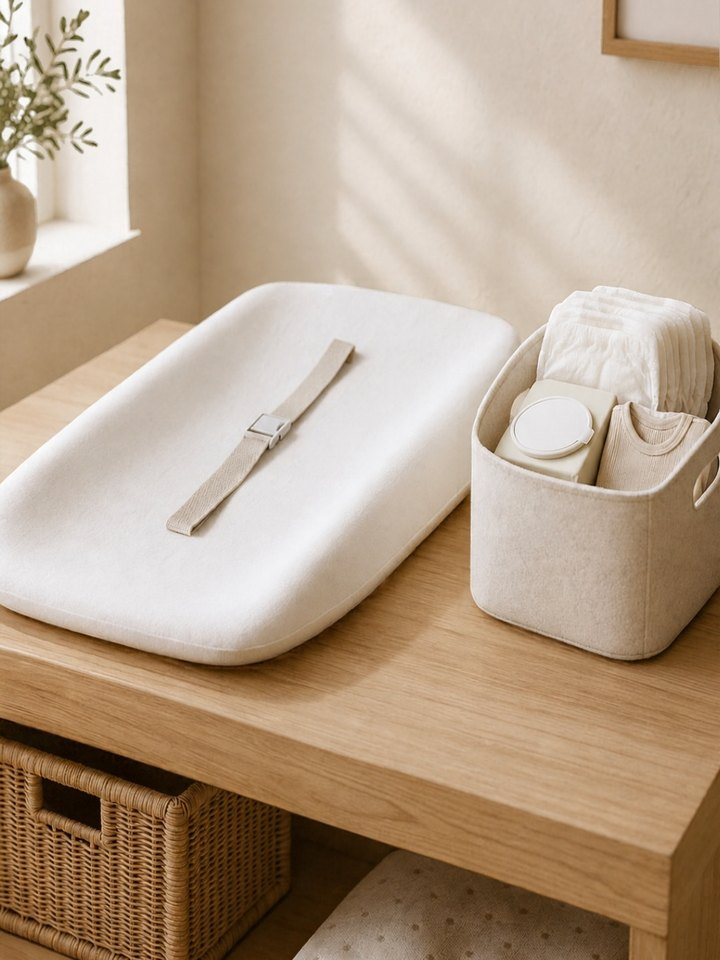
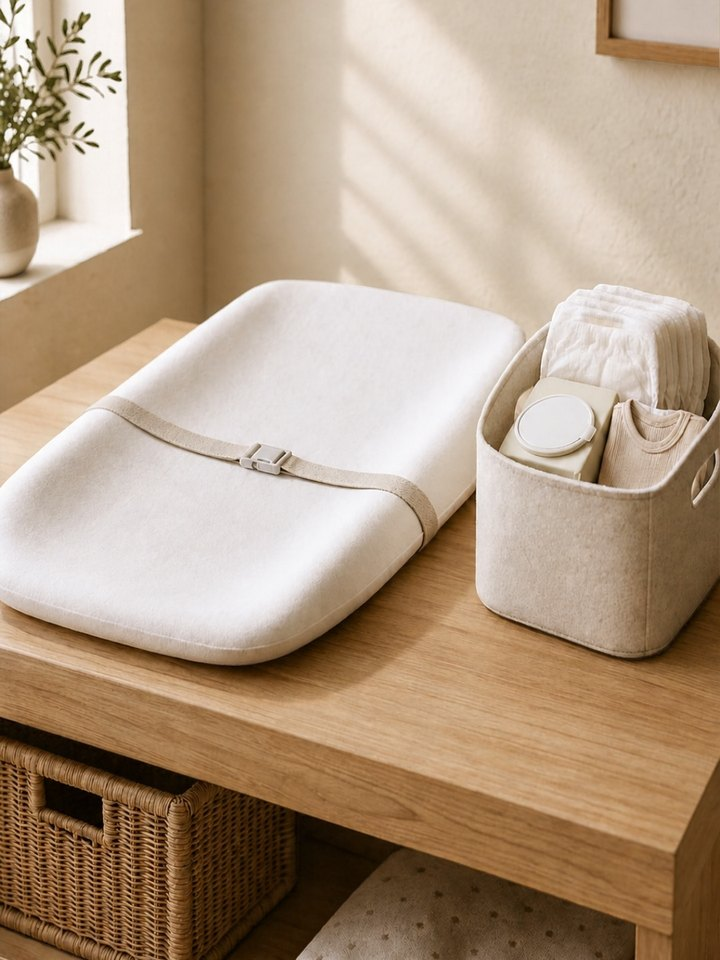
Safety: changing-pad strap runs across the pad; tag sits under it
Claude-Session: https://claude.ai/code/session_01SSLJSEm38iTtuYbhThgaqn

diff --git a/js/safety-v2.js b/js/safety-v2.js
@@ -208,7 +208,7 @@
       fix: [['window', 'Cordless blinds and shades', 'Tying up the cord isn’t enough'], ['plug', 'Monitor cords 3 feet away', 'From the crib or bassinet'], ['crib', 'Crib away from windows', 'Not under or right beside one']],
       checks: ['Stand beside the crib and stretch out an arm. You shouldn’t reach any cord.'] },
     changing: {
-      ba: [[PH('changing-before'), 'A changing table with a bare pad and nothing within reach', null], [PH('changing-after'), 'The same table with a strapped pad and a caddy of diapers and wipes beside it', ['Strap', 36, 52, 'r']]],
+      ba: [[PH('changing-before'), 'A changing table with a bare pad and nothing within reach', null], [PH('changing-after'), 'The same table with a strapped pad and a caddy of diapers and wipes beside it', ['Strap', 36, 53, 'b']]],
       spotTiles: [['eye', 'Supplies out of reach', 'So you turn away for a second'], ['roll', 'A raised table', 'Babies roll sooner than you expect'], ['sofa', 'Beds and sofas', 'No edge to stop a roll']],
       fixPhoto: [PH('changing-fix'), 'A changing table with wipes and a changing pad within arm’s reach', [['Wipes within reach', 10, 64, 'r']]],
       fix: [['diaper', 'Supplies within reach', 'Diapers, wipes and a change of clothes'], ['hand', 'One hand on {o}, always', 'Even with the strap on'], ['mat', 'Or use the floor', 'A mat on the floor, never a bed or sofa']],

diff --git a/css/safety-look.css b/css/safety-look.css
@@ -118,3 +118,4 @@
 #main .sf-step .sf-ba + .sf-fixrows { padding-top: 6px }
 #main .sf-step .sf-ba .sf-pin-r { flex-direction: row; transform: translate(-7px, -50%) }
 #main .sf-step .sf-ba .sf-pin-l { flex-direction: row-reverse; transform: translate(calc(-100% + 7px), -50%) }
+#main .sf-step .sf-ba .sf-pin-t { flex-direction: column-reverse; transform: translate(-50%, calc(-100% + 7px)) }
